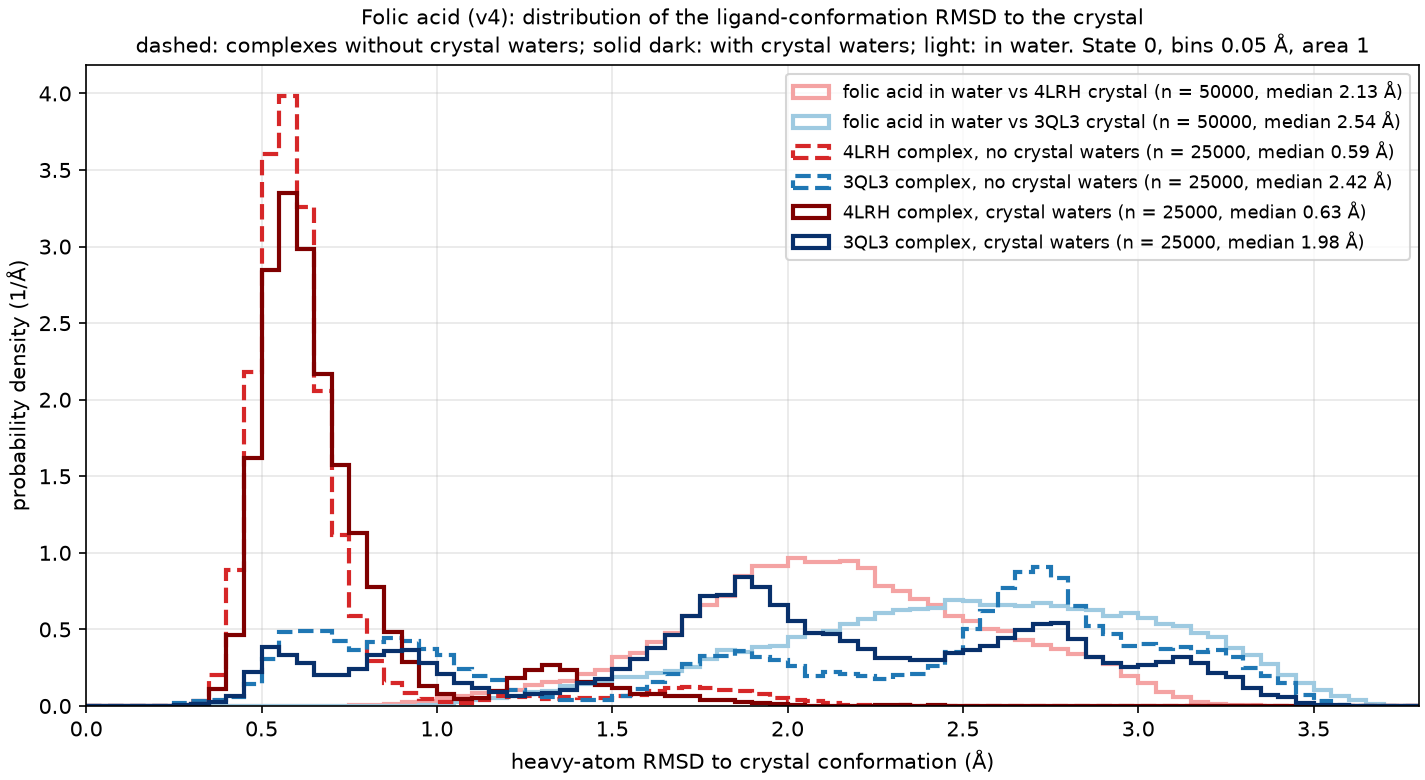
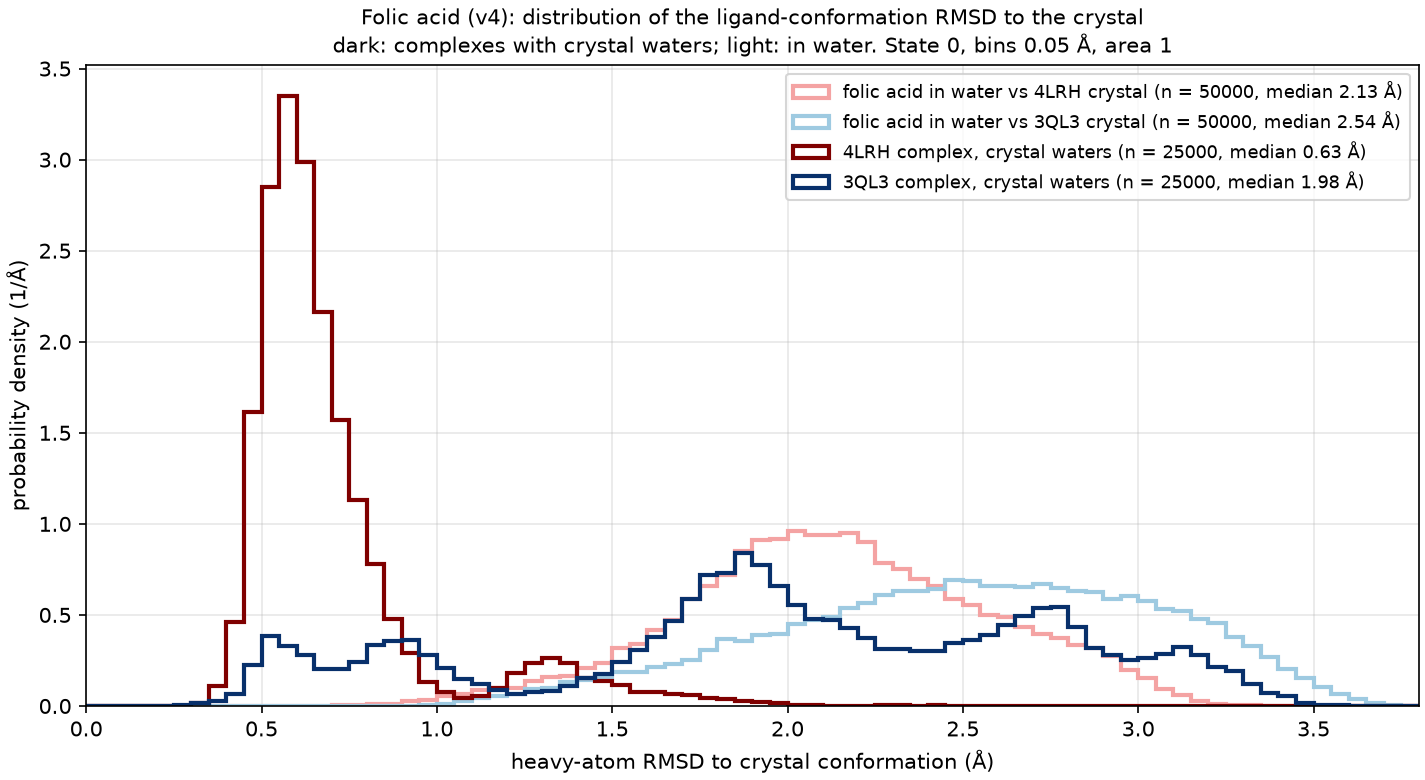
Folate RMSD to the crystal: drop the runs without crystal waters from the plots
The time series shows only the two crystal-water complexes, the density adds folic acid in water as
the reference (job 29045718). The complexes without crystal waters are no longer needed.

diff --git a/runs/REST2-complex-xtalwater/scripts/rmsd_vs_crystal.py b/runs/REST2-complex-xtalwater/scripts/rmsd_vs_crystal.py
@@ -1,5 +1,5 @@
 """Folate RMSD to the crystal conformation for the complex runs WITH crystal waters, and the density
-plot against the earlier runs WITHOUT them.
+plot against folic acid in water.
 
 Same measure as FOL-REST2-v4/scripts/rmsd_vs_crystal.py: every frame's folate heavy atoms are
 superposed onto the crystal folate (Kabsch) and the lowest RMSD over the symmetry-equivalent atom
@@ -10,13 +10,13 @@ REST2 state 0, every saved frame, heavy atoms only.
 New runs (computed here): REST2-complex-xtalwater/FOL-4LRH and FOL-3QL3, folate cut out of the
 state-0 solute trajectory. They use the unchanged v4 folate package, so the atom order is the one of
 the earlier v4 runs (checked on the elements against packages/FOL/FOL.sdf).
-Earlier runs (read, not recomputed; their trajectories are not on sciCORE): the per-frame values in
+Folic acid in water (read, not recomputed; the trajectory is not on sciCORE): the per-frame values in
 results/symfirst-2026-10-15/1_v4-new-rest2/folic-acid-v4_rmsd_vs_crystal.csv (v4 water vs both
-crystals, v4 4LRH and 3QL3 complexes without crystal waters).
+crystals). The complexes without crystal waters in that file are no longer plotted.
 
   python -I rmsd_vs_crystal.py [--thesis DIR] [--repo DIR] --out <prefix>
 writes <prefix>.csv (new runs, columns run,crystal,time_ns,rmsd_A as the earlier file),
-<prefix>.png (new runs over time) and <prefix>_hist.png (density, all six curves).
+<prefix>.png (new runs over time) and <prefix>_hist.png (density, the four curves).
 """
 import argparse
 import csv
@@ -37,8 +37,6 @@ NEW = {"4LRH": "4LRH complex, crystal waters", "3QL3": "3QL3 complex, crystal wa
 CURVES = [
     ("water", "4LRH", "#f4a3a3", "-", "folic acid in water vs 4LRH crystal"),
     ("water", "3QL3", "#9ecae1", "-", "folic acid in water vs 3QL3 crystal"),
-    ("4LRH complex", "4LRH", "#d62728", "--", "4LRH complex, no crystal waters"),
-    ("3QL3 complex", "3QL3", "#1f77b4", "--", "3QL3 complex, no crystal waters"),
     (NEW["4LRH"], "4LRH", "#7f0000", "-", "4LRH complex, crystal waters"),
     (NEW["3QL3"], "3QL3", "#08306b", "-", "3QL3 complex, crystal waters"),
 ]
@@ -140,13 +138,13 @@ def main():
     leg = ax.legend(loc="upper right", fontsize=9, markerscale=6)
     for h in leg.legend_handles:
         h.set_alpha(1)
-    ax.set_title("Folic acid (v4) in its complexes, with and without crystal waters: RMSD of the ligand "
+    ax.set_title("Folic acid (v4) in its complexes with crystal waters: RMSD of the ligand "
                  "conformation to the crystal over time\nREST2 state 0; folate superposed on folate, best over "
                  "symmetry-equivalent atoms; one point per saved frame", fontsize=10)
     fig.savefig(f"{args.out}.png", dpi=150)
     plt.close(fig)
 
-    # density: all six curves, same bins, each normalised to area 1
+    # density: the four curves, same bins, each normalised to area 1
     top_val = max(r.max() for _, r in data.values())
     edges = np.arange(0.0, np.ceil(top_val / 0.05) * 0.05 + 0.05, 0.05)
     fig, ax = plt.subplots(figsize=(9.5, 5.2), layout="constrained")
@@ -162,7 +160,7 @@ def main():
     ax.grid(alpha=0.3)
     ax.legend(fontsize=8.5, loc="upper right")
     ax.set_title("Folic acid (v4): distribution of the ligand-conformation RMSD to the crystal\n"
-                 "dashed: complexes without crystal waters; solid dark: with crystal waters; light: in water. "
+                 "dark: complexes with crystal waters; light: in water. "
                  "State 0, bins 0.05 Å, area 1", fontsize=10)
     fig.savefig(f"{args.out}_hist.png", dpi=150)
     plt.close(fig)

diff --git a/results/folic-acid-xtalwater/README.md b/results/folic-acid-xtalwater/README.md
@@ -1,15 +1,13 @@
 # Folate RMSD to the crystal conformation: complexes with crystal waters
 
-From `runs/REST2-complex-xtalwater/scripts/rmsd_vs_crystal.sbatch` (sciCORE job 29043300,
+From `runs/REST2-complex-xtalwater/scripts/rmsd_vs_crystal.sbatch` (sciCORE job 29045718,
 2026-10-29). Folate superposed on folate (shape, not position in the pocket; for that see
-`results/binding-check/xtalwater/`), REST2 state 0, best over symmetry-equivalent atoms. The runs
-without crystal waters are read from `results/symfirst-2026-10-15/1_v4-new-rest2/folic-acid-v4_rmsd_vs_crystal.csv`.
+`results/binding-check/xtalwater/`), REST2 state 0, best over symmetry-equivalent atoms. Folic acid
+in water (reference) is read from `results/symfirst-2026-10-15/1_v4-new-rest2/folic-acid-v4_rmsd_vs_crystal.csv`.
 
 | run | median RMSD | < 1 A | < 1.5 A |
 |---|---|---|---|
-| 4LRH, no crystal waters | 0.59 A | 92 % | 95 % |
 | 4LRH, crystal waters | 0.63 A | 90 % | 97 % |
-| 3QL3, no crystal waters | 2.42 A | 23 % | 29 % |
 | 3QL3, crystal waters | 1.98 A | 17 % | 23 % |
 | in water vs 4LRH crystal | 2.13 A | 0 % | 7 % |
 | in water vs 3QL3 crystal | 2.54 A | 0 % | 4 % |
